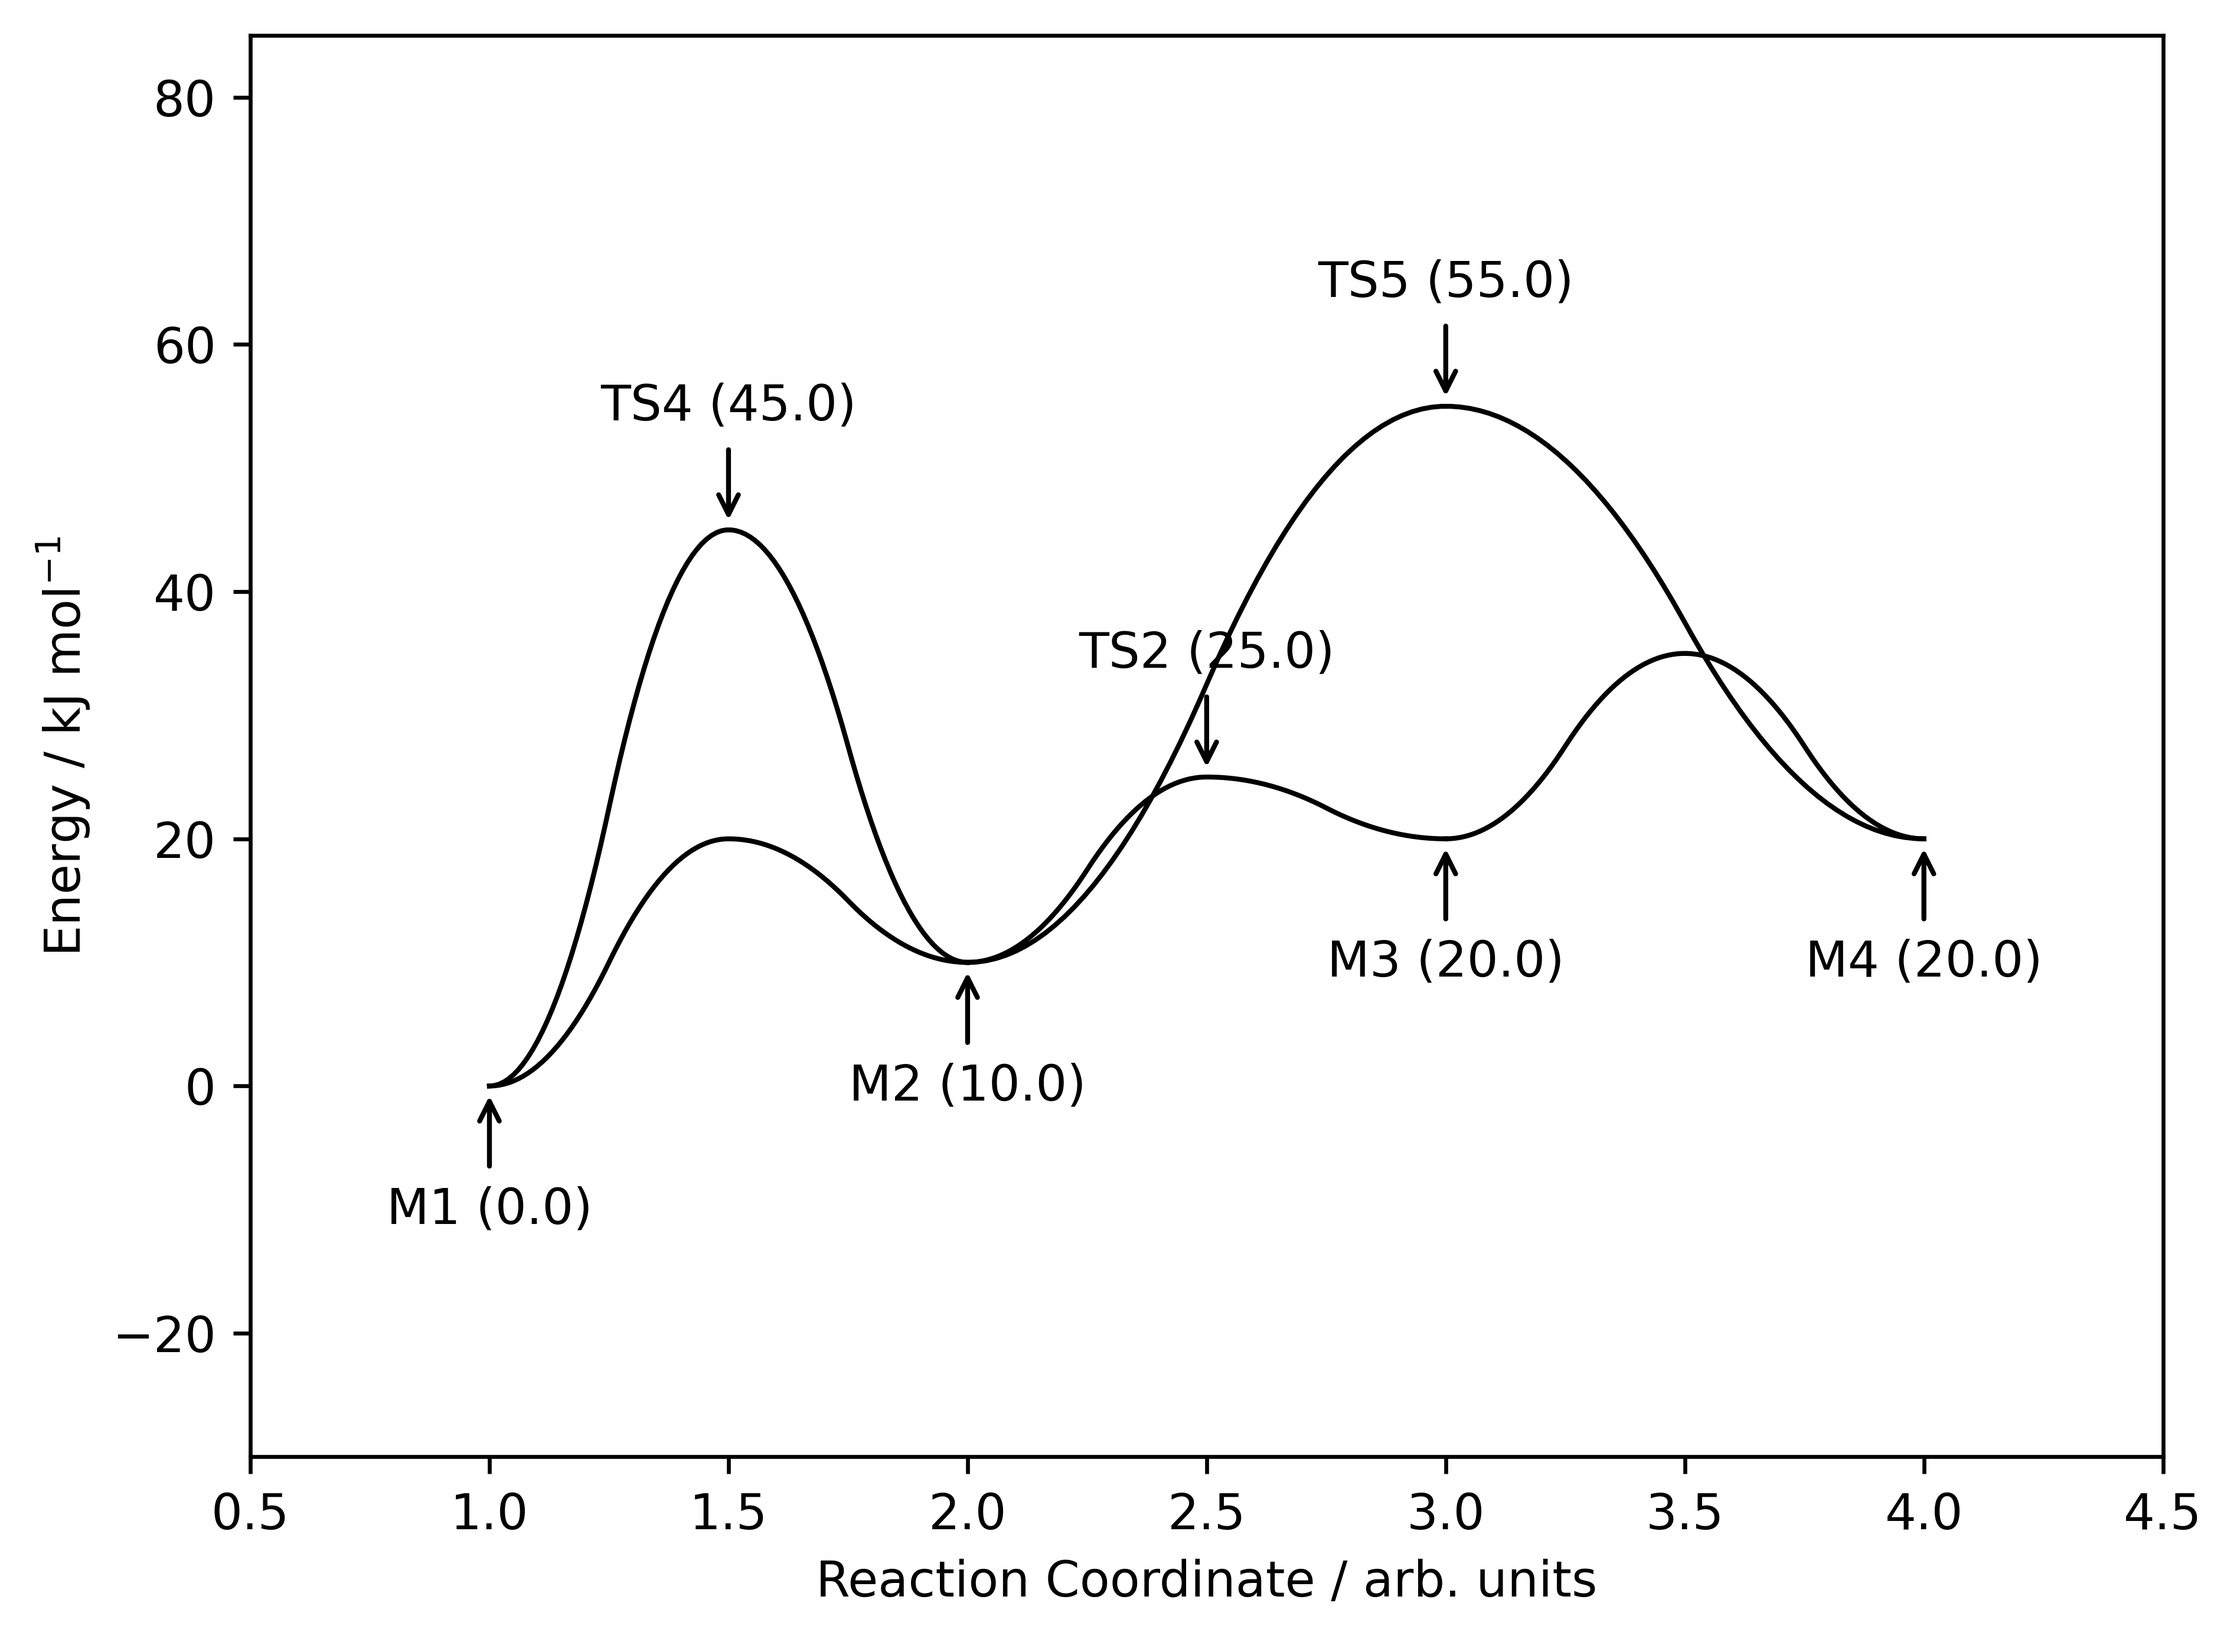
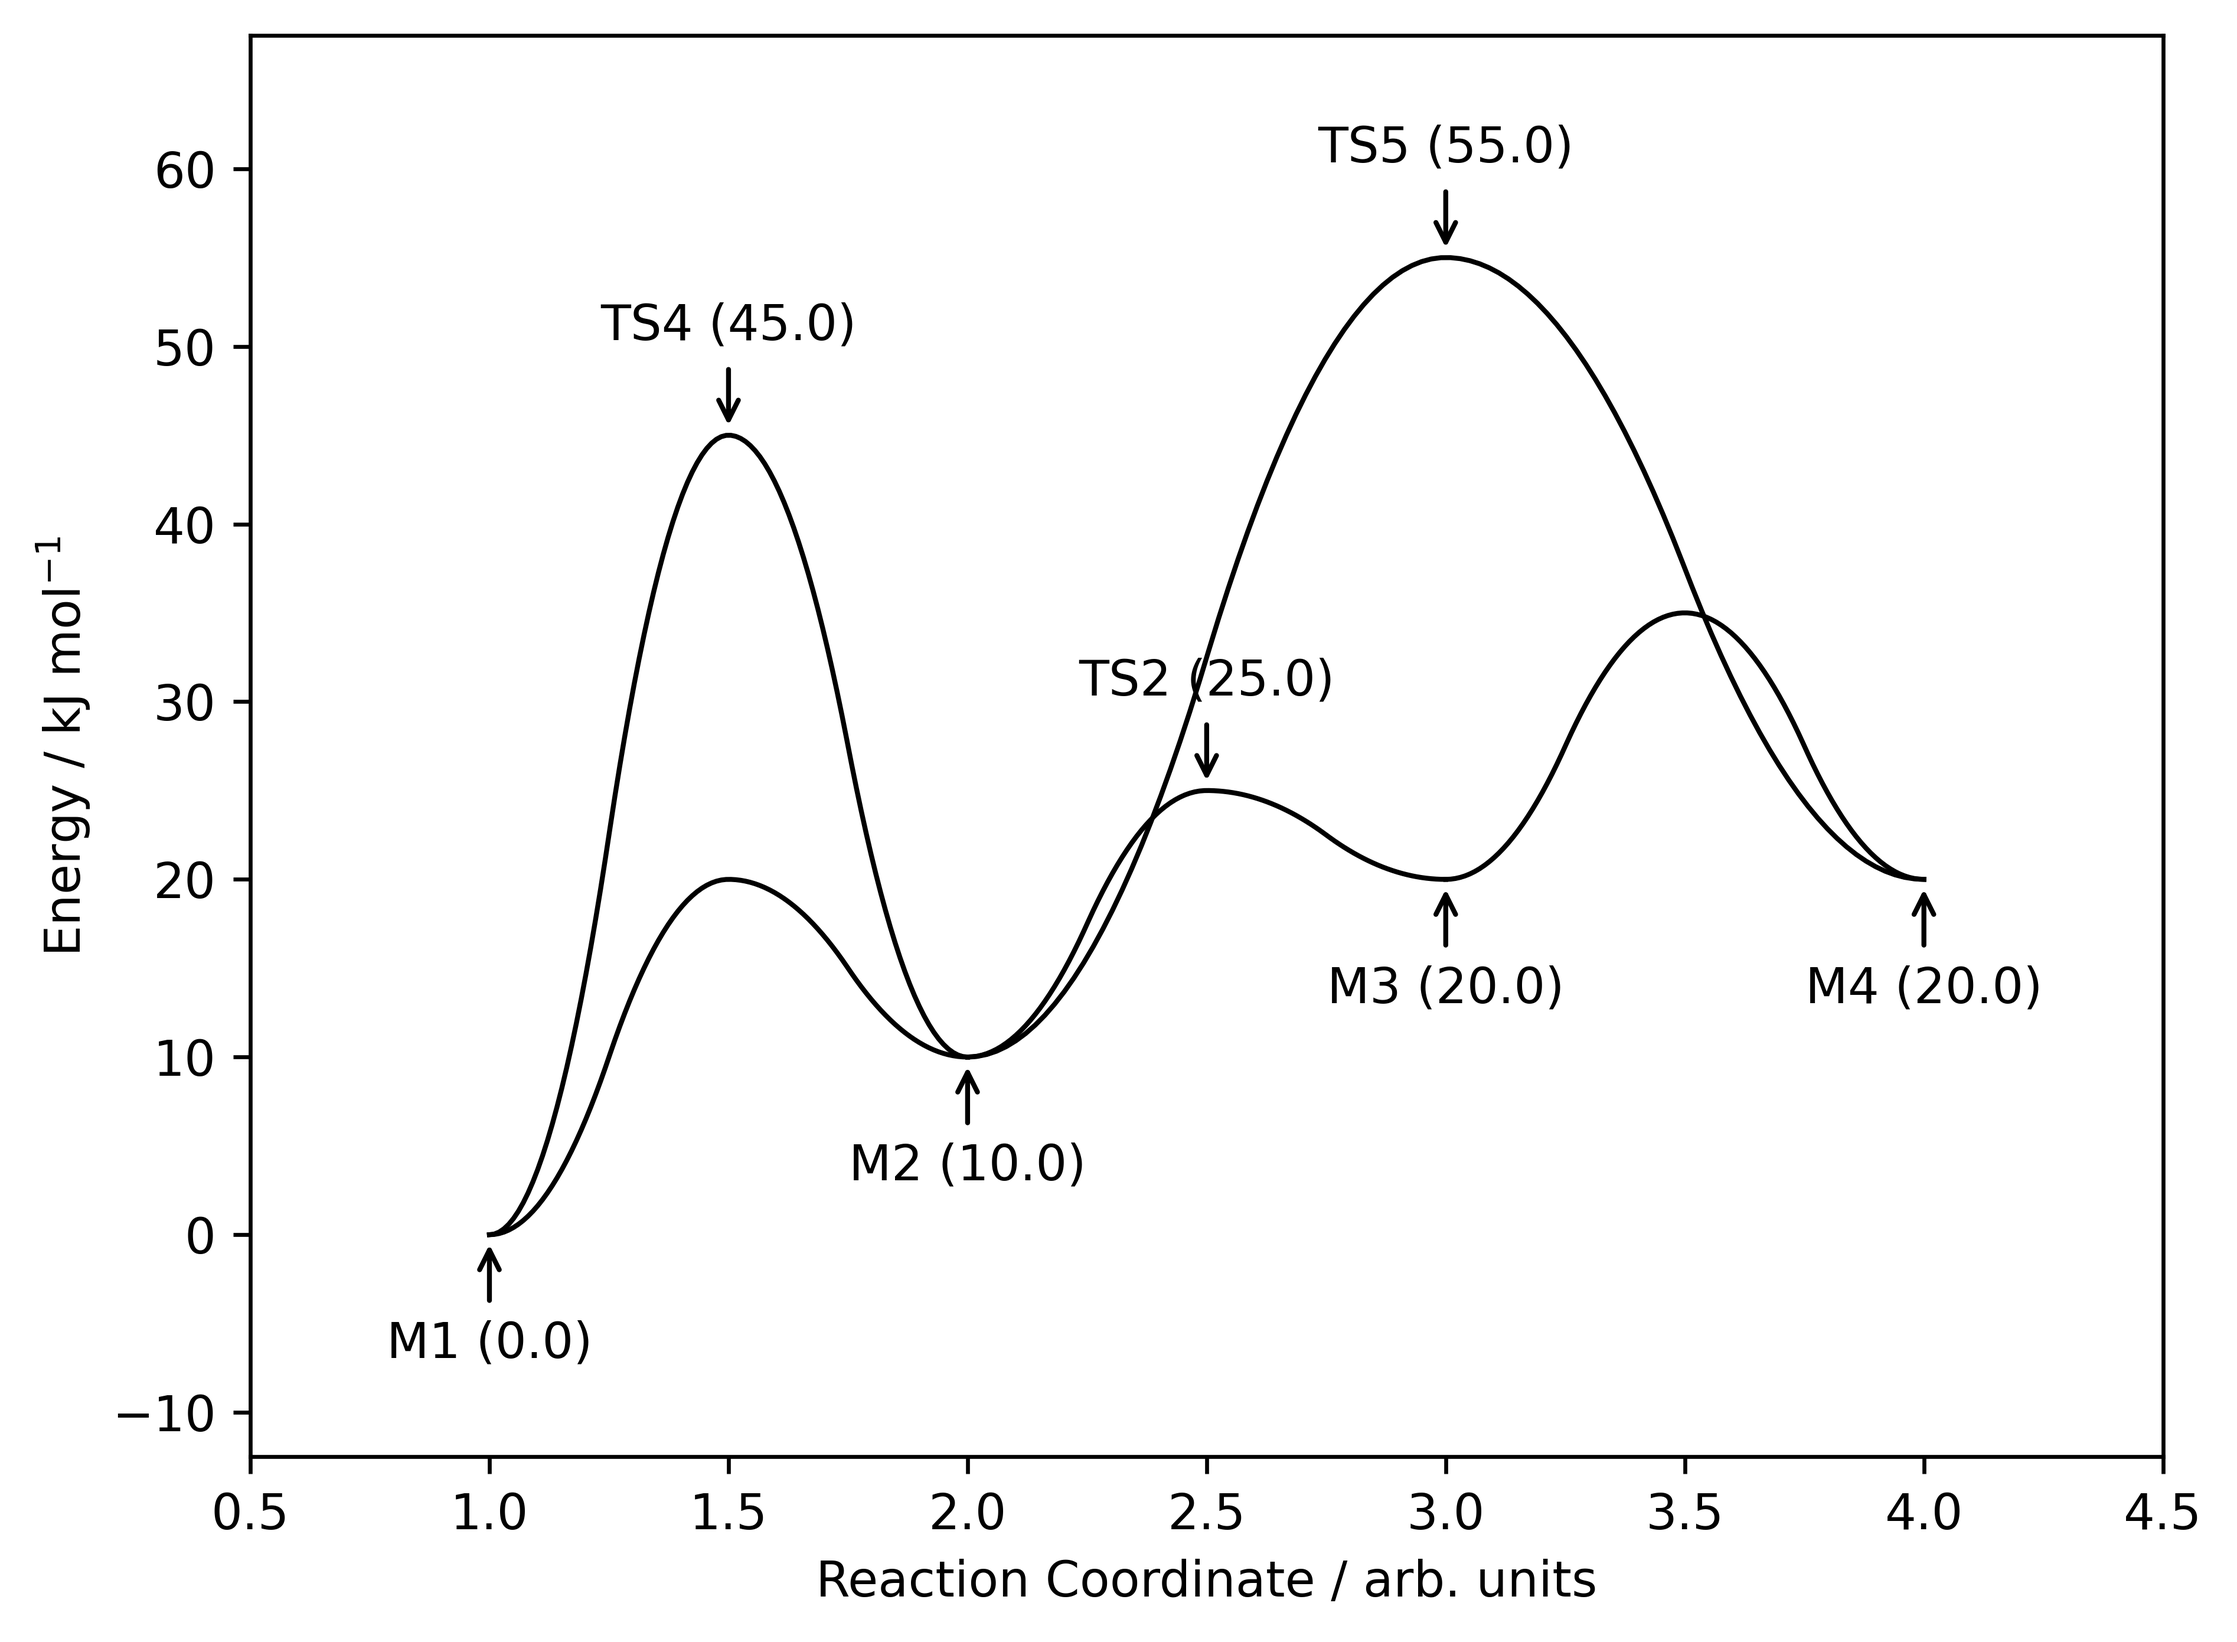
Label-axis overlaps: fix ensure labels are within x and y scales. Other fix: minima should be set along x axis as per input file rather than reaction

diff --git a/service/plotter.py b/service/plotter.py
@@ -81,6 +81,9 @@ class Plotter:
         self._surface = surface
         self._output_file = output_file
         self._fopts = fopts
+        self._energy_range = None
+        self._vertical_annotation_offset = None
+        self._annotations = []
 
     @property
     def surface(self) -> PES:
@@ -105,6 +108,30 @@ class Plotter:
     @fopts.setter
     def fopts(self, fopts: dict[str, any]):
         self._fopts = fopts
+
+    @property
+    def energy_range(self) -> int:
+        return self._energy_range
+
+    @energy_range.setter
+    def energy_range(self, energy_range: int):
+        self._energy_range = energy_range
+
+    @property
+    def vertical_annotation_offset(self):
+        return self._vertical_annotation_offset
+
+    @vertical_annotation_offset.setter
+    def vertical_annotation_offset(self, vertical_annotation_offset: float):
+        self._vertical_annotation_offset = vertical_annotation_offset
+
+    @property
+    def annotations(self) -> list[any]:
+        return self._annotations
+
+    @annotations.setter
+    def annotations(self, annotations: list[any]):
+        self._annotations = annotations
 
     def get_format_option(self, rxn: Reaction, option: str) -> str | None:
         return (
@@ -167,6 +194,33 @@ class Plotter:
 
         return " ".join([name, "(" + str(np.round(sp.energy, 1)) + ")"])
 
+    def get_energy_range(self):
+        if self.energy_range is None:
+            sps = self.surface.get_stationary_points()
+            min = np.min([sp.energy for sp in sps])
+            max = np.max([sp.energy for sp in sps])
+            range = 25 * round((max - min) / 25)
+            self.energy_range = 25 if range == 0 else range
+            logger.info("Energy range = {}".format(self.energy_range))
+        return self.energy_range
+
+    def get_vertical_annotation_offset(self):
+        if self.vertical_annotation_offset is None:
+            range = self.get_energy_range()
+            offset = np.abs(0.15 * (range))
+            self.vertical_annotation_offset = offset
+            logger.info(
+                "Vertical annotation offset = {}".format(
+                    self.vertical_annotation_offset
+                )
+            )
+        return self.vertical_annotation_offset
+
+    def add_annotation(self, annotation: any):
+        annotations = self.annotations
+        annotations.append(annotation)
+        self.annotations = annotations
+
     def get_image_resolution(self) -> int:
         res = self.get_global_option("resolution")
         if res is not None:
@@ -188,37 +242,52 @@ class Plotter:
     def add_minima_labels(self, axis: any) -> None:
         for sp in self.surface.minima:
             sp: StationaryPoint
-            axis.annotate(
-                self.get_stationary_point_label(sp),
-                (sp.rxn_coord, sp.energy),
-                xytext=(0, -30),  # vertical offset.
-                textcoords="offset points",
-                ha="center",
-                va="bottom",
-                arrowprops=dict(arrowstyle="->", color="k"),
-                fontfamily=self.get_label_font(),
-            )
+            if self.show_label(sp):
+                annotation = axis.annotate(
+                    self.get_stationary_point_label(sp),
+                    (sp.rxn_coord, sp.energy),
+                    xytext=(
+                        sp.rxn_coord,
+                        sp.energy - self.get_vertical_annotation_offset(),
+                    ),
+                    textcoords="data",
+                    ha="center",
+                    va="bottom",
+                    arrowprops=dict(arrowstyle="->", color="k"),
+                    fontfamily=self.get_label_font(),
+                )
+                self.add_annotation(annotation)
 
     def add_ts_labels(self, axis: any) -> None:
         for sp in self.surface.ts:
             sp: StationaryPoint
             if self.show_label(sp):
-                axis.annotate(
+                annotation = axis.annotate(
                     self.get_stationary_point_label(sp),
                     (sp.rxn_coord, sp.energy),
-                    xytext=(0, +30),  # vertical offset.
-                    textcoords="offset points",
+                    xytext=(
+                        sp.rxn_coord,
+                        sp.energy + self.get_vertical_annotation_offset(),
+                    ),
+                    textcoords="data",
                     ha="center",
                     va="top",
                     arrowprops=dict(arrowstyle="->", color="k"),  # Arrow properties
                     fontfamily=self.get_label_font(),
                 )
+                self.add_annotation(annotation)
 
     def set_limits(self, axis: any) -> None:
-        xvals = [x.rxn_coord for x in self.surface.get_stationary_points()]
-        yvals = [x.energy for x in self.surface.get_stationary_points()]
-        axis.set_xlim([np.min(xvals) - 0.5, np.max(xvals) + 0.5])
-        axis.set_ylim([np.min(yvals) - 30, np.max(yvals) + 30])
+        xcoords = [s.rxn_coord for s in self.surface.get_stationary_points()]
+        ycoords = [s.energy for s in self.surface.get_stationary_points()]
+        labels = [text.get_position() for text in axis.texts]
+        if labels is not None:
+            xcoords += [i[0] for i in labels]
+            ycoords += [i[1] for i in labels]
+        ymin = np.min(ycoords) - 0.1 * self.get_energy_range()
+        ymax = np.max(ycoords) + 0.1 * self.get_energy_range()
+        axis.set_xlim([np.min(xcoords) - 0.5, np.max(xcoords) + 0.5])
+        axis.set_ylim([ymin, ymax])
 
     def save_image(self, fig: any) -> None:
         PlotterUtils.save_image(

diff --git a/service/grid.py b/service/grid.py
@@ -29,8 +29,9 @@ class PESGridEnhancer:
         )
         x_grid: dict[str, float] = {}
 
-        [cls.add_minima_to_grid(x_grid, rxn) for rxn in surface.reactions]
+        [cls.add_minima_to_grid(x_grid, species) for species in surface.minima]
         [cls.add_ts_to_grid(x_grid, rxn) for rxn in surface.reactions]
+
         stationary_points = set()
         [
             stationary_points.add(x)
@@ -41,10 +42,9 @@ class PESGridEnhancer:
             sp.rxn_coord = x_grid[sp.name]
 
     @classmethod
-    def add_minima_to_grid(cls, x_grid: dict[str, float], rxn: Reaction):
-        for species in [rxn.reac, rxn.prod]:
-            if species.name not in x_grid:
-                x_grid[species.name] = len(x_grid.keys()) + 1
+    def add_minima_to_grid(cls, x_grid: dict[str, float], species: StationaryPoint):
+        if species.name not in x_grid:
+            x_grid[species.name] = len(x_grid.keys()) + 1
 
     @classmethod
     def add_ts_to_grid(cls, x_grid: dict[str, float], rxn: Reaction):
